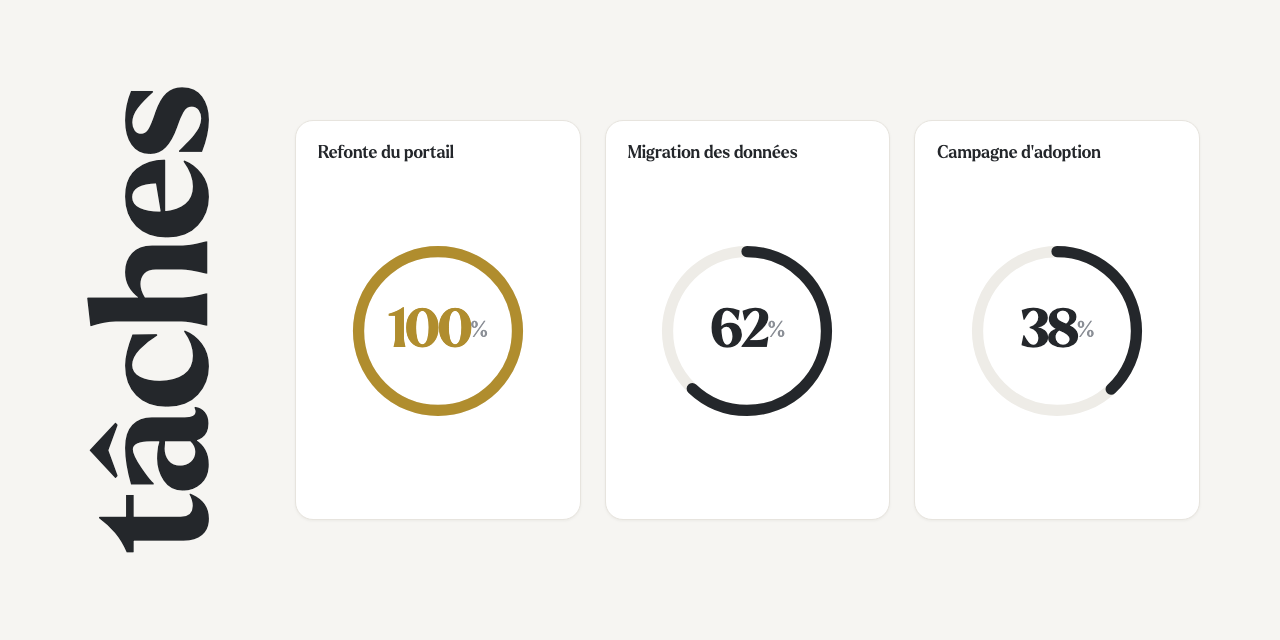
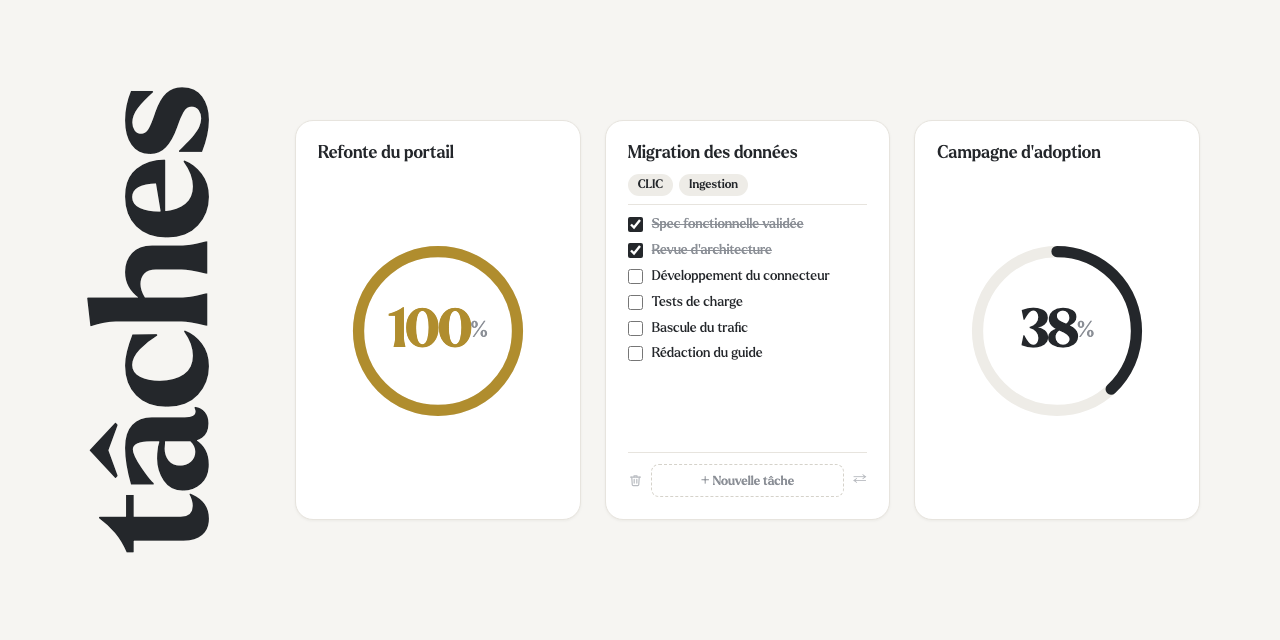
Carte sociale : montrer le verso d une carte
La vignette ne montrait que des jauges : rien ne laissait deviner qu une
liste de tâches vit derrière chaque carte. Celle du milieu est retournée,
avec ses tags, ses cases cochées et sa barre d actions.

Changed region(s): [[0.4688, 0.3438, 0.6562, 0.6562], [0.5625, 0.7188, 0.625, 0.7812], [0.5, 0.2812, 0.5938, 0.3125]]

diff --git a/assets/og-card.html b/assets/og-card.html
@@ -23,7 +23,7 @@
   }
 
 :root { --bg:#f6f5f2; --panel:#fff; --edge:#e7e4de; --ink:#24272b;
-         --dim:#8b8f96; --track:#eeece7; --gold:#b08d2e; }
+         --dim:#8b8f96; --faint:#b9bcc1; --track:#eeece7; --gold:#b08d2e; --dash:#d5d2ca; }
 * { margin:0; padding:0; box-sizing:border-box; }
 body { width:1280px; height:640px; background:var(--bg); color:var(--ink);
         font-family:'Larken',Georgia,serif; display:flex; align-items:center;
@@ -45,6 +45,24 @@ body { width:1280px; height:640px; background:var(--bg); color:var(--ink);
            letter-spacing:-.037em; font-variant-numeric:tabular-nums; }
 .unite { font-size:.42em; font-weight:500; color:var(--dim);
           letter-spacing:0; vertical-align:.83em; }
+
+/* Verso : la même carte, retournée, pour montrer la liste qu'elle abrite */
+.tags { display:flex; gap:6px; padding:9px 0 8px; border-bottom:1px solid var(--edge); }
+.tag { font-size:12px; font-weight:500; padding:3px 10px;
+        border-radius:999px; background:var(--track); }
+.taches { list-style:none; flex:1; padding-top:11px; display:flex;
+           flex-direction:column; gap:9px; }
+.tache { display:flex; align-items:center; gap:9px; font-size:13.5px; line-height:1.25; }
+.tache input { width:15px; height:15px; accent-color:var(--ink); flex-shrink:0; margin:0; }
+.tache.faite span { text-decoration:line-through; color:var(--dim); }
+
+.barre { display:flex; align-items:center; gap:8px;
+          border-top:1px solid var(--edge); padding-top:11px; }
+.ic { width:15px; height:15px; color:var(--faint); flex-shrink:0; }
+.flip { font-size:14px; line-height:1; text-align:center; }
+.ajout { flex:1; text-align:center; font-size:12.5px; font-weight:500; color:var(--dim);
+          border:1.5px dashed var(--dash); border-radius:8px; padding:6px 4px; }
+.plus { font-size:15px; font-weight:400; }
 </style></head><body>
 <div class="mot">tâches</div>
 <div class="grille">
@@ -57,15 +75,21 @@ body { width:1280px; height:640px; background:var(--bg); color:var(--ink);
       </svg>
       <div class="valeur" style="color:var(--gold)">100<span class="unite">%</span></div>
     </div></div>
-<div class="carte"><div class="titre-carte">Migration des données</div><div class="jauge">
-      <svg viewBox="0 0 220 220">
-        <circle cx="110" cy="110" r="92" fill="none" stroke="var(--track)" stroke-width="13"/>
-        <circle cx="110" cy="110" r="92" fill="none" stroke="var(--ink)" stroke-width="13"
-                stroke-linecap="round" transform="rotate(-90 110 110)"
-                stroke-dasharray="578.05" stroke-dashoffset="219.66"/>
-      </svg>
-      <div class="valeur" style="color:var(--ink)">62<span class="unite">%</span></div>
-    </div></div>
+<div class="carte verso">
+      <div class="titre-carte">Migration des données</div>
+      <div class="tags"><span class="tag">CLIC</span><span class="tag">Ingestion</span></div>
+      <ul class="taches"><li class="tache faite"><input type="checkbox" checked><span>Spec fonctionnelle validée</span></li><li class="tache faite"><input type="checkbox" checked><span>Revue d'architecture</span></li><li class="tache"><input type="checkbox"><span>Développement du connecteur</span></li><li class="tache"><input type="checkbox"><span>Tests de charge</span></li><li class="tache"><input type="checkbox"><span>Bascule du trafic</span></li><li class="tache"><input type="checkbox"><span>Rédaction du guide</span></li></ul>
+      <div class="barre">
+        <svg class="ic" viewBox="0 0 16 16" fill="none" stroke="currentColor"
+             stroke-width="1.3" stroke-linecap="round" stroke-linejoin="round">
+          <path d="M2.7 4.3h10.6"/><path d="M6.4 4.3V3h3.2v1.3"/>
+          <path d="M4 4.3l.55 8.2a1 1 0 0 0 1 .95h4.9a1 1 0 0 0 1-.95L12 4.3"/>
+          <path d="M6.6 6.9v3.8M9.4 6.9v3.8"/>
+        </svg>
+        <span class="ajout"><span class="plus">+</span> Nouvelle tâche</span>
+        <span class="ic flip">⇄</span>
+      </div>
+    </div>
 <div class="carte"><div class="titre-carte">Campagne d'adoption</div><div class="jauge">
       <svg viewBox="0 0 220 220">
         <circle cx="110" cy="110" r="92" fill="none" stroke="var(--track)" stroke-width="13"/>
